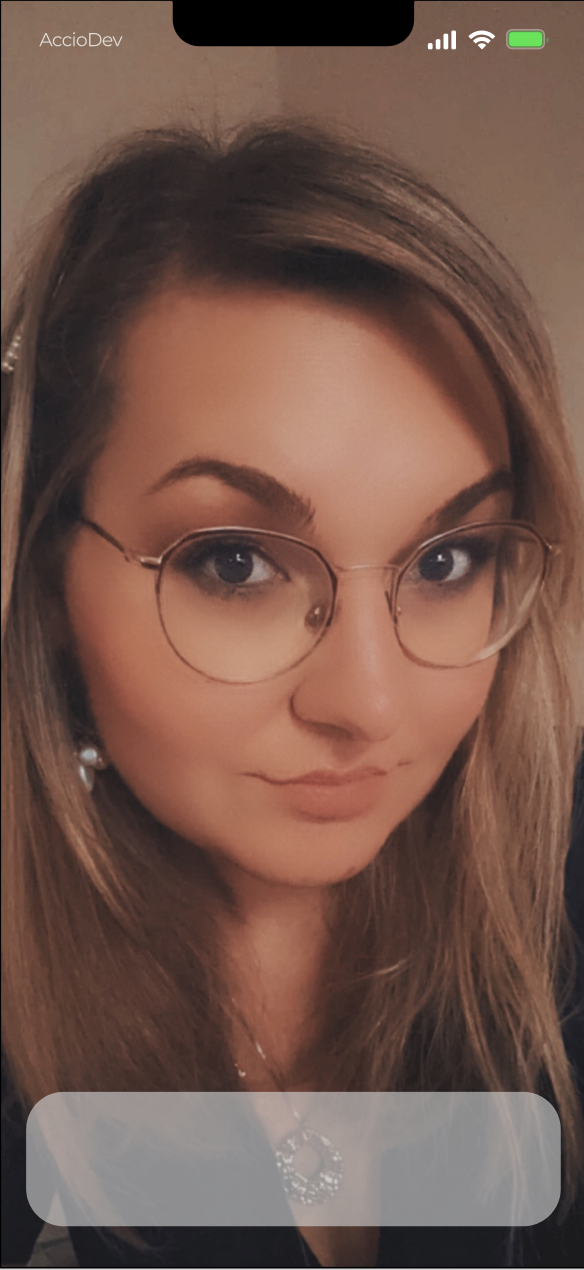
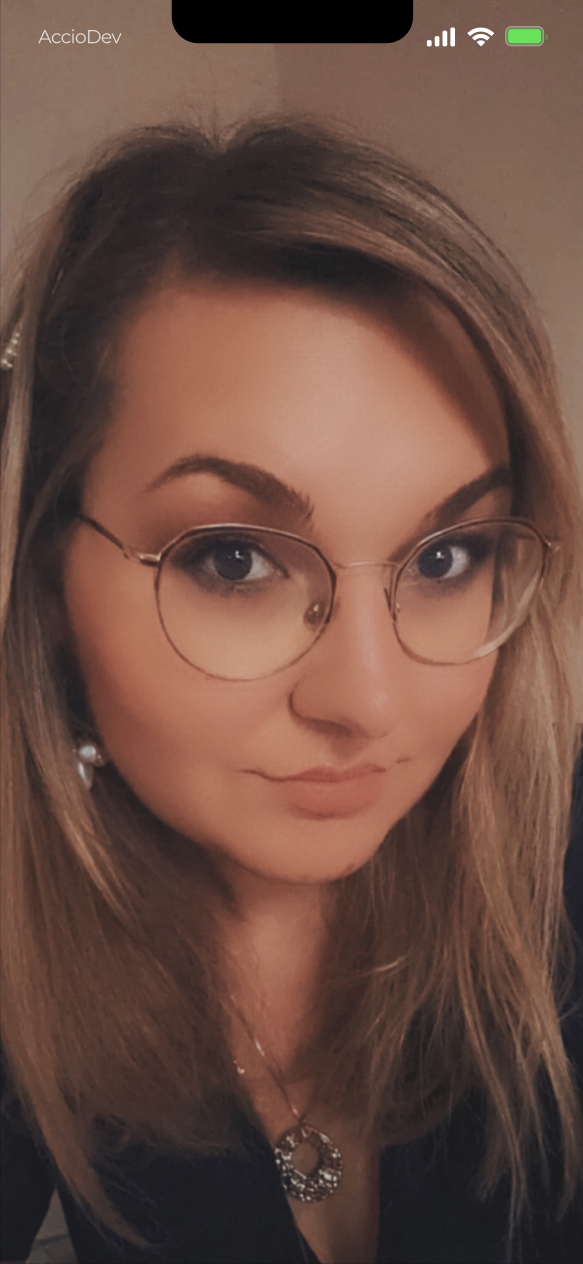
addin tabbar on homepage iphone

diff --git a/scss/layout/_title.scss b/scss/layout/_title.scss
@@ -6,25 +6,26 @@
             margin-bottom: 0px;
             margin: auto;
             text-align: center;
-            background: linear-gradient(120deg,rgb(206, 179, 116) 20%,rgb(252, 223, 188) 100%);
+            background: linear-gradient(120deg, #ceb374 20%, #fcdfbc 100%);
             background-clip: border-box;
             -webkit-background-clip: text;
-            -webkit-text-fill-color: transparent;  
+            -webkit-text-fill-color: transparent;
         }
-    }        
+    }
+
     h2 {
         font-family: "adelia";
         margin-left: 60%;
         font-size: 1.5vw;
         color: black;
-        opacity: 0; 
-        transform: translateX(-20px); 
+        opacity: 0;
+        transform: translateX(-20px);
         animation: titreFadeIn 0.5s ease-out 0.5s forwards;
-        }
+    }
+
     p {
-        font-family: "Montserrat";
-        font-weight: 400;
-        width: 50%;
+        font-family: "SF-Regular";
+        width: 52%;
         margin: auto;
         padding-top: 100px;
         font-size: 1.2vw;
@@ -36,33 +37,51 @@
 .iphone {
     display: flex;
     justify-content: center;
+    position: relative;
     .photomoi {
         height: 70vh;
         border-radius: 30px;
-        border: 4px rgb(206, 179, 116) solid;
+        border: 5px rgb(206, 179, 116) solid;
         border-radius: 30px;
         box-shadow: 10px 6px 6px rgba(206, 179, 116, 0.474);
         z-index: 0;
     }
-    .montre { 
-        margin-top: 4%;
+    .montre {
+        display: flex;
         position: absolute;
         font-weight: bold;
         color: #ffffff94;
         font-family: "SF-Regular";
         z-index: 9999;
         text-align: center;
+        flex-direction: column;
+        top: 50px;
         #date {
-            font-size: 1vw;
+            font-size: 1.1vw;
         }
+
         #heure {
             font-size: 4.6vw;
         }
-    } 
+    }
+    .tabbar {
+        display: flex;
+        gap: 2vh;
+        background-color: rgba(203, 203, 203, 0.571);
+        border-radius: 20px;
+        position: absolute;
+        bottom: 20px;
+        padding: 10px 12px;
+        width: 92%;
+        height: 57px;
+        img {
+            width: 90%;
+        }
+    }
 }
 
 .accueil {
-    display: flex; 
+    display: flex;
     justify-content: space-around;
     width: 80%;
     margin: auto;

diff --git a/scss/main.css b/scss/main.css
@@ -39,7 +39,7 @@ body {
   margin-bottom: 0px;
   margin: auto;
   text-align: center;
-  background: linear-gradient(120deg, rgb(206, 179, 116) 20%, rgb(252, 223, 188) 100%);
+  background: linear-gradient(120deg, #ceb374 20%, #fcdfbc 100%);
   background-clip: border-box;
   -webkit-background-clip: text;
   -webkit-text-fill-color: transparent;
@@ -54,9 +54,8 @@ body {
   animation: titreFadeIn 0.5s ease-out 0.5s forwards;
 }
 #entete p {
-  font-family: "Montserrat";
-  font-weight: 400;
-  width: 50%;
+  font-family: "SF-Regular";
+  width: 52%;
   margin: auto;
   padding-top: 100px;
   font-size: 1.2vw;
@@ -65,29 +64,46 @@ body {
 .iphone {
   display: flex;
   justify-content: center;
+  position: relative;
 }
 .iphone .photomoi {
   height: 70vh;
   border-radius: 30px;
-  border: 4px rgb(206, 179, 116) solid;
+  border: 5px rgb(206, 179, 116) solid;
   border-radius: 30px;
   box-shadow: 10px 6px 6px rgba(206, 179, 116, 0.474);
   z-index: 0;
 }
 .iphone .montre {
-  margin-top: 4%;
+  display: flex;
   position: absolute;
   font-weight: bold;
   color: rgba(255, 255, 255, 0.5803921569);
   font-family: "SF-Regular";
   z-index: 9999;
   text-align: center;
+  flex-direction: column;
+  top: 50px;
 }
 .iphone .montre #date {
-  font-size: 1vw;
+  font-size: 1.1vw;
 }
 .iphone .montre #heure {
   font-size: 4.6vw;
+}
+.iphone .tabbar {
+  display: flex;
+  gap: 2vh;
+  background-color: rgba(203, 203, 203, 0.571);
+  border-radius: 20px;
+  position: absolute;
+  bottom: 20px;
+  padding: 10px 12px;
+  width: 92%;
+  height: 57px;
+}
+.iphone .tabbar img {
+  width: 90%;
 }
 
 .accueil {
@@ -116,7 +132,7 @@ nav {
   justify-content: space-around;
 }
 nav a {
-  color: rgb(103, 94, 78);
+  color: #675e4e;
   text-decoration: none;
   font-family: "MontserratAlt1-Regular";
   transition: ease-in-out 1s;
@@ -134,6 +150,9 @@ nav a::before {
 }
 nav a:hover::before {
   width: 122%;
+}
+nav img {
+  width: 24px;
 }
 
 @font-face {

diff --git a/index.html b/index.html
@@ -11,6 +11,9 @@
 
 <body>
     <nav>
+        <a href="index.html">
+            <img src="Assets/home.png">
+        </a>
         <a href="presentation.html">PRÉSENTATION</a>
         <a href="portfolioapp.html">PORTFOLIO APPLE</a>
         <a href="portfolioweb.html">PORTFOLIO WEB</a>
@@ -22,7 +25,22 @@
             <div class="montre">
                 <div id="date"></div>
                 <div id="heure"></div>
-            </div>  
+            </div>
+
+            <div class="tabbar">
+                <a href="index.html">
+                    <img src="Assets/home (1).png">
+                </a>
+                <a href="presentation.html">
+                    <img src="Assets/woman.png">
+                </a>
+                <a href="portfolioapp.html">
+                    <img src="Assets/apple (2).png">
+                </a>
+                <a href="portfolioweb.html">
+                    <img src="Assets/desktop.png">
+                </a>
+            </div>
         </div>
 
         <div id="entete">

diff --git a/scss/layout/_nav.scss b/scss/layout/_nav.scss
@@ -3,7 +3,7 @@ nav {
     padding: 20px;
     justify-content: space-around;
     a {
-        color: rgb(103, 94, 78);
+        color: #675e4e;
         text-decoration: none;
         font-family: "MontserratAlt1-Regular";
         transition: ease-in-out 1s;
@@ -21,5 +21,8 @@ nav {
     }
     a:hover::before {
         width: 122%;
+    }
+    img {
+        width: 24px;
     }
 }

diff --git a/portfolioweb.html b/portfolioweb.html
@@ -12,10 +12,12 @@
 <body>
 
     <nav>
-        <a href="index.html">ACCUEIL</a>
+        <a href="index.html">
+            <img src="Assets/home.png">
+        </a>
         <a href="presentation.html">PRÉSENTATION</a>
         <a href="portfolioapp.html">PORTFOLIO APPLE</a>
-
+        <a href="portfolioweb.html">PORTFOLIO WEB</a>
     </nav>
 
 </body>

diff --git a/portfolioapp.html b/portfolioapp.html
@@ -12,8 +12,11 @@
 <body>
 
     <nav>
-        <a href="index.html">ACCUEIL</a>
+        <a href="index.html">
+            <img src="Assets/home.png">
+        </a>
         <a href="presentation.html">PRÉSENTATION</a>
+        <a href="portfolioapp.html">PORTFOLIO APPLE</a>
         <a href="portfolioweb.html">PORTFOLIO WEB</a>
     </nav>
 

diff --git a/presentation.html b/presentation.html
@@ -11,7 +11,10 @@
 
 <body>
     <nav>
-        <a href="index.html">ACCUEIL</a>
+        <a href="index.html">
+            <img src="Assets/home.png">
+        </a>
+        <a href="presentation.html">PRÉSENTATION</a>
         <a href="portfolioapp.html">PORTFOLIO APPLE</a>
         <a href="portfolioweb.html">PORTFOLIO WEB</a>
     </nav>
